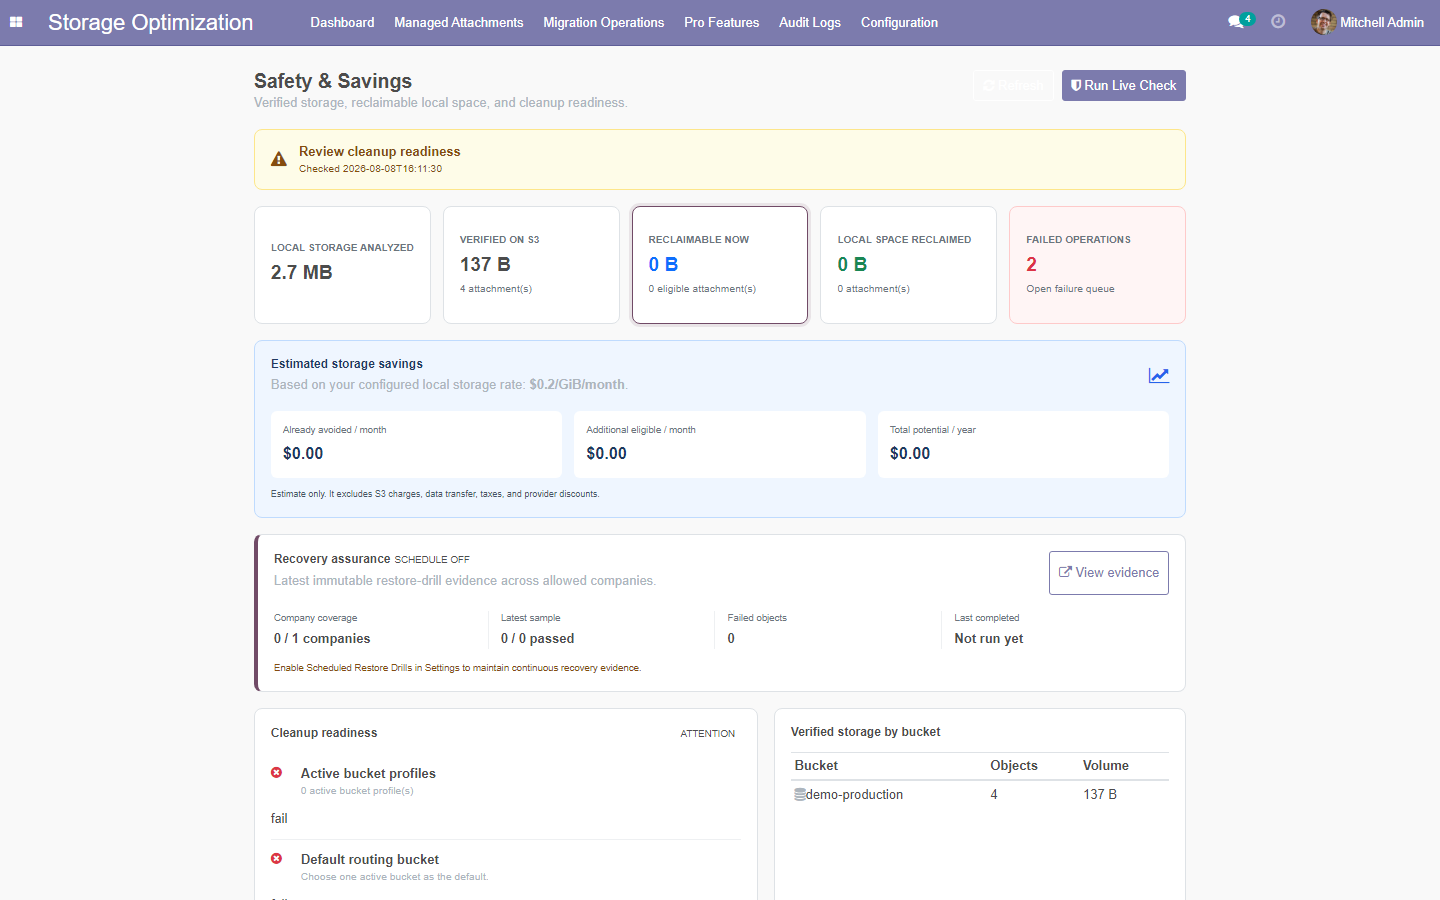
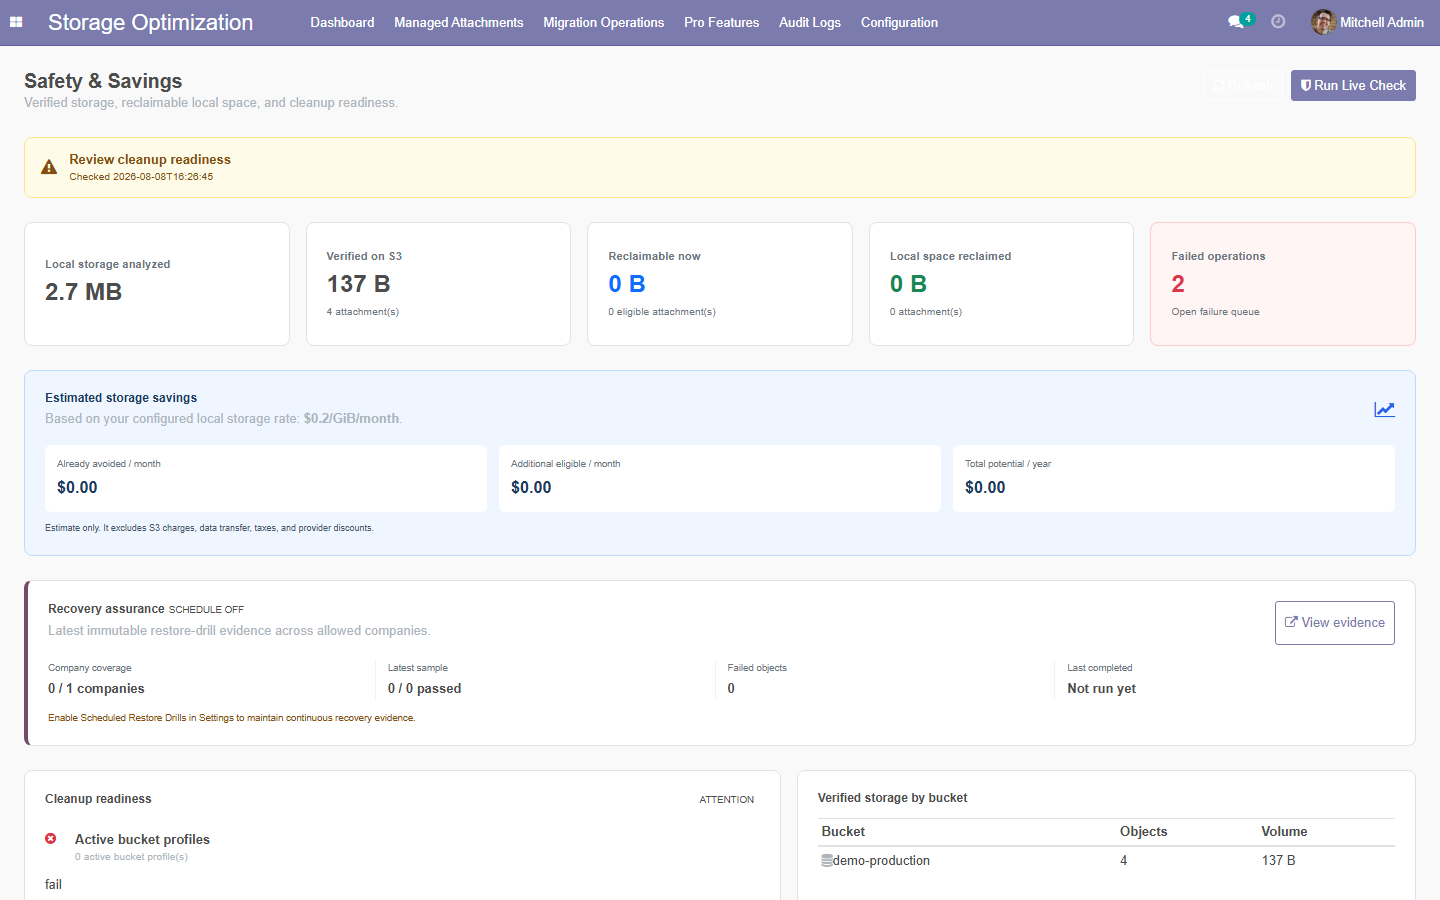
Improve Pro dashboard layout and loading state

diff --git a/attachment_optimizer_pro/static/src/components/pro_dashboard/pro_dashboard.scss b/attachment_optimizer_pro/static/src/components/pro_dashboard/pro_dashboard.scss
@@ -1,7 +1,10 @@
 .o_pro_safety_dashboard {
-    max-width: 1320px;
-    margin: 0 auto;
+    width: 100%;
+    margin: 0;
     padding: 24px;
+    box-sizing: border-box;
+    min-height: 100%;
+    position: relative;
 }
 
 .o_pro_dashboard_header,
@@ -12,7 +15,7 @@
     gap: 16px;
 }
 
-.o_pro_dashboard_header { margin-bottom: 16px; }
+.o_pro_dashboard_header { margin-bottom: 24px; }
 .o_pro_dashboard_header h2,
 .o_pro_panel_header h3 { margin: 0; }
 .o_pro_panel_header h3 { font-size: 1rem; font-weight: 600; }
@@ -25,7 +28,7 @@
     border: 1px solid;
     border-radius: 8px;
     padding: 12px 16px;
-    margin-bottom: 16px;
+    margin-bottom: 24px;
 }
 .o_pro_readiness_banner > i { font-size: 1.35rem; }
 .o_pro_ready { color: #166534; background: #f0fdf4; border-color: #bbf7d0; }
@@ -34,13 +37,13 @@
 .o_pro_kpi_grid {
     display: grid;
     grid-template-columns: repeat(5, minmax(0, 1fr));
-    gap: 12px;
-    margin-bottom: 16px;
+    gap: 16px;
+    margin-bottom: 24px;
 }
 .o_pro_kpi_card {
     min-width: 0;
-    min-height: 118px;
-    padding: 16px;
+    min-height: 124px;
+    padding: 20px;
     border: 1px solid #dee2e6;
     border-radius: 8px;
     background: var(--o-view-background-color, #fff);
@@ -50,10 +53,15 @@
     flex-direction: column;
     justify-content: center;
 }
-.o_pro_kpi_card strong { font-size: 1.6rem; line-height: 1.2; margin: 5px 0; }
+.o_pro_kpi_card strong {
+    font-size: 2rem;
+    line-height: 1.2;
+    margin: 5px 0;
+    font-variant-numeric: tabular-nums;
+}
 .o_pro_kpi_card small,
 .o_pro_kpi_label { color: var(--o-gray-600, #6c757d); }
-.o_pro_kpi_label { font-size: 0.8rem; font-weight: 600; text-transform: uppercase; letter-spacing: .03em; }
+.o_pro_kpi_label { font-size: .95rem; font-weight: 600; }
 .o_pro_kpi_action { cursor: pointer; transition: border-color .15s ease, box-shadow .15s ease; }
 .o_pro_kpi_action:hover,
 .o_pro_kpi_action:focus-visible { border-color: var(--o-brand-primary, #714b67); box-shadow: 0 0 0 3px rgba(113, 75, 103, .12); outline: 0; }
@@ -63,8 +71,8 @@
 .o_pro_kpi_danger strong { color: #dc3545; }
 
 .o_pro_savings_panel {
-    margin-bottom: 16px;
-    padding: 16px;
+    margin-bottom: 24px;
+    padding: 20px;
     border: 1px solid #bfdbfe;
     border-radius: 8px;
     background: #eff6ff;
@@ -94,8 +102,8 @@
 .o_pro_savings_metrics strong { display: block; margin-top: 4px; font-size: 1.35rem; }
 .o_pro_savings_note { color: #475569; font-size: .75rem; }
 .o_pro_assurance_panel {
-    margin-bottom: 16px;
-    padding: 16px;
+    margin-bottom: 24px;
+    padding: 20px;
     border: 1px solid #dee2e6;
     border-left: 4px solid var(--o-brand-primary, #714b67);
     border-radius: 8px;
@@ -122,12 +130,26 @@
 .o_pro_assurance_hint { margin-top: 12px; color: #854d0e; font-size: .8rem; }
 .o_pro_assurance_error { color: #b42318; }
 .o_pro_dashboard_columns { display: grid; grid-template-columns: 1.1fr .9fr; gap: 16px; }
-.o_pro_panel { background: var(--o-view-background-color, #fff); border: 1px solid #dee2e6; border-radius: 8px; padding: 16px; }
+.o_pro_panel { background: var(--o-view-background-color, #fff); border: 1px solid #dee2e6; border-radius: 8px; padding: 20px; }
 .o_pro_panel_header { align-items: center; margin-bottom: 12px; }
 .o_pro_check_list { display: flex; flex-direction: column; }
 .o_pro_check { display: grid; grid-template-columns: 20px 1fr; gap: 10px; padding: 10px 0; border-top: 1px solid #eef0f2; }
 .o_pro_check:first-child { border-top: 0; }
 .o_pro_check > i { margin-top: 2px; }
+
+.o_pro_dashboard_overlay {
+    position: absolute;
+    inset: 0;
+    z-index: 10;
+    display: flex;
+    flex-direction: column;
+    align-items: center;
+    justify-content: center;
+    min-height: 320px;
+    background: var(--o-view-background-color, #fff);
+    color: var(--o-gray-600, #6c757d);
+}
+.o_pro_dashboard_overlay p { margin: 12px 0 0; }
 
 @media (max-width: 1100px) {
     .o_pro_kpi_grid { grid-template-columns: repeat(3, minmax(0, 1fr)); }

diff --git a/attachment_optimizer_pro/static/description/index.html b/attachment_optimizer_pro/static/description/index.html
@@ -96,6 +96,6 @@ For subsequent modules, update content inside sections only. Do not alter sectio
     </div>
 
     <!-- FOOTER -->
-    <div style="border:1px solid #e2e8f0; border-radius:16px; padding:32px 24px; margin:40px 0 16px; text-align:center;"><div style="font-size:14px; font-weight:700; color:#1e293b; text-transform:uppercase;">Attachment Optimizer Pro</div><p style="font-size:13px; color:#64748b; line-height:1.6;">Automated, verified S3-compatible attachment lifecycle management for Odoo.</p><div style="display:inline-block; border:2px solid #4f46e5; color:#4f46e5; font-weight:700; font-size:13px; padding:10px 28px; border-radius:8px;">US$49 · One-Time · No Subscription</div><p style="font-size:11px; color:#94a3b8; margin:20px 0 0;">Version 14.0.1.0.18 · Built and maintained by FoxPink</p></div>
+    <div style="border:1px solid #e2e8f0; border-radius:16px; padding:32px 24px; margin:40px 0 16px; text-align:center;"><div style="font-size:14px; font-weight:700; color:#1e293b; text-transform:uppercase;">Attachment Optimizer Pro</div><p style="font-size:13px; color:#64748b; line-height:1.6;">Automated, verified S3-compatible attachment lifecycle management for Odoo.</p><div style="display:inline-block; border:2px solid #4f46e5; color:#4f46e5; font-weight:700; font-size:13px; padding:10px 28px; border-radius:8px;">US$49 · One-Time · No Subscription</div><p style="font-size:11px; color:#94a3b8; margin:20px 0 0;">Version 14.0.1.0.19 · Built and maintained by FoxPink</p></div>
   </div>
 </section>

diff --git a/attachment_optimizer_pro/__manifest__.py b/attachment_optimizer_pro/__manifest__.py
@@ -1,6 +1,6 @@
 {
     "name": "Attachment Optimizer Pro",
-    "version": "14.0.1.0.18",
+    "version": "14.0.1.0.19",
     "category": "Storage",
     "summary": "Automation, cleanup, routing and lifecycle for S3-compatible attachment storage.",
     "description": """

diff --git a/README.md b/README.md
@@ -8,7 +8,7 @@ Only update product content, version, links, compatibility status, screenshots, 
 
 ![Attachment Optimizer Pro](attachment_optimizer_pro/static/description/preview.png)
 
-**Version:** 14.0.1.0.18 -- **License:** OPL-1 -- **Publisher:** FoxPink -- Maintained for **Odoo 14.0**
+**Version:** 14.0.1.0.19 -- **License:** OPL-1 -- **Publisher:** FoxPink -- Maintained for **Odoo 14.0**
 
 ---
 
